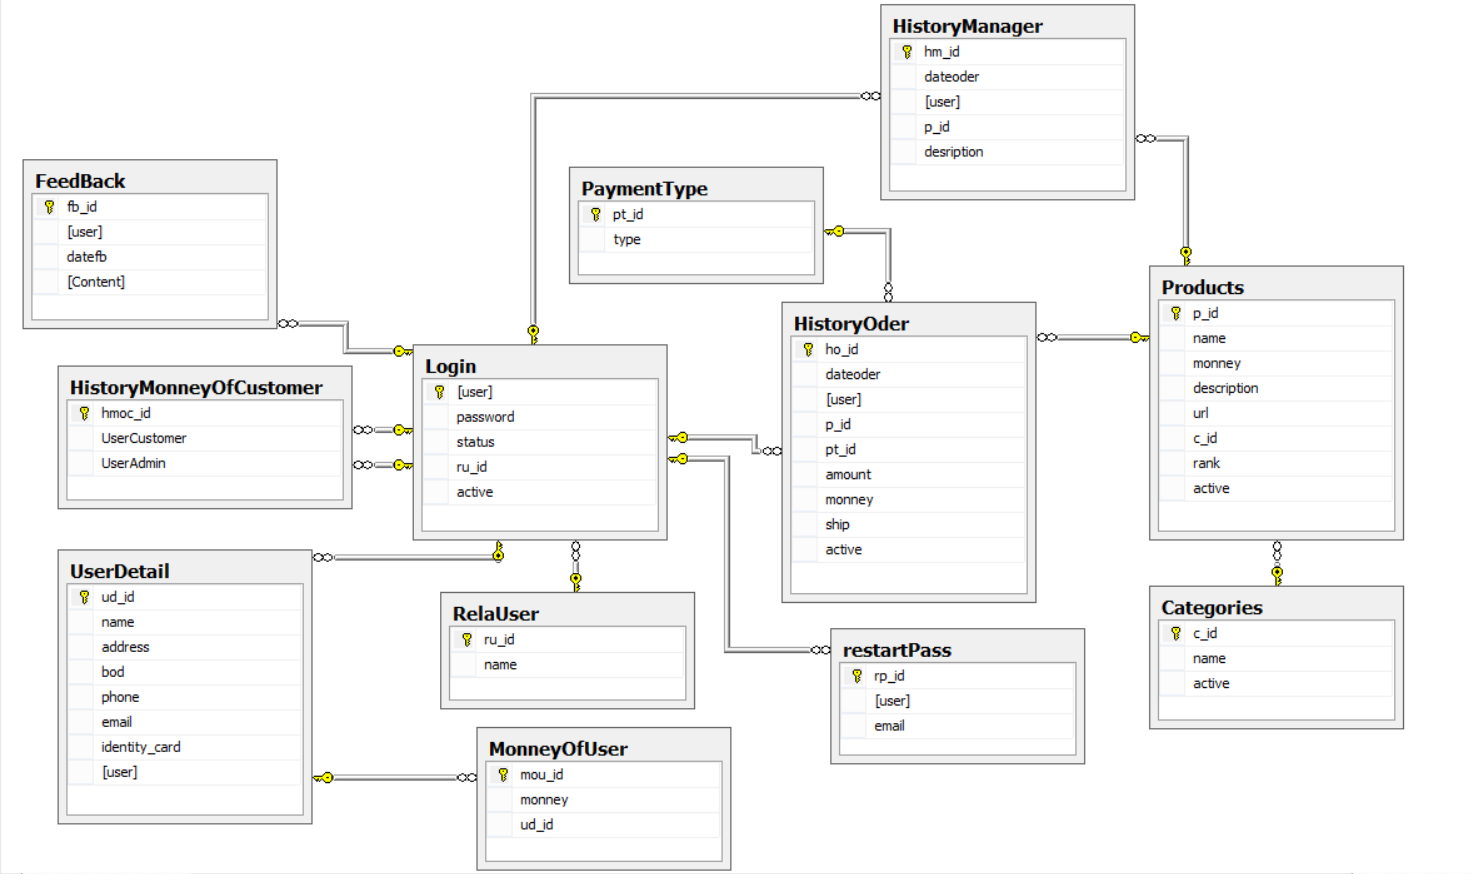
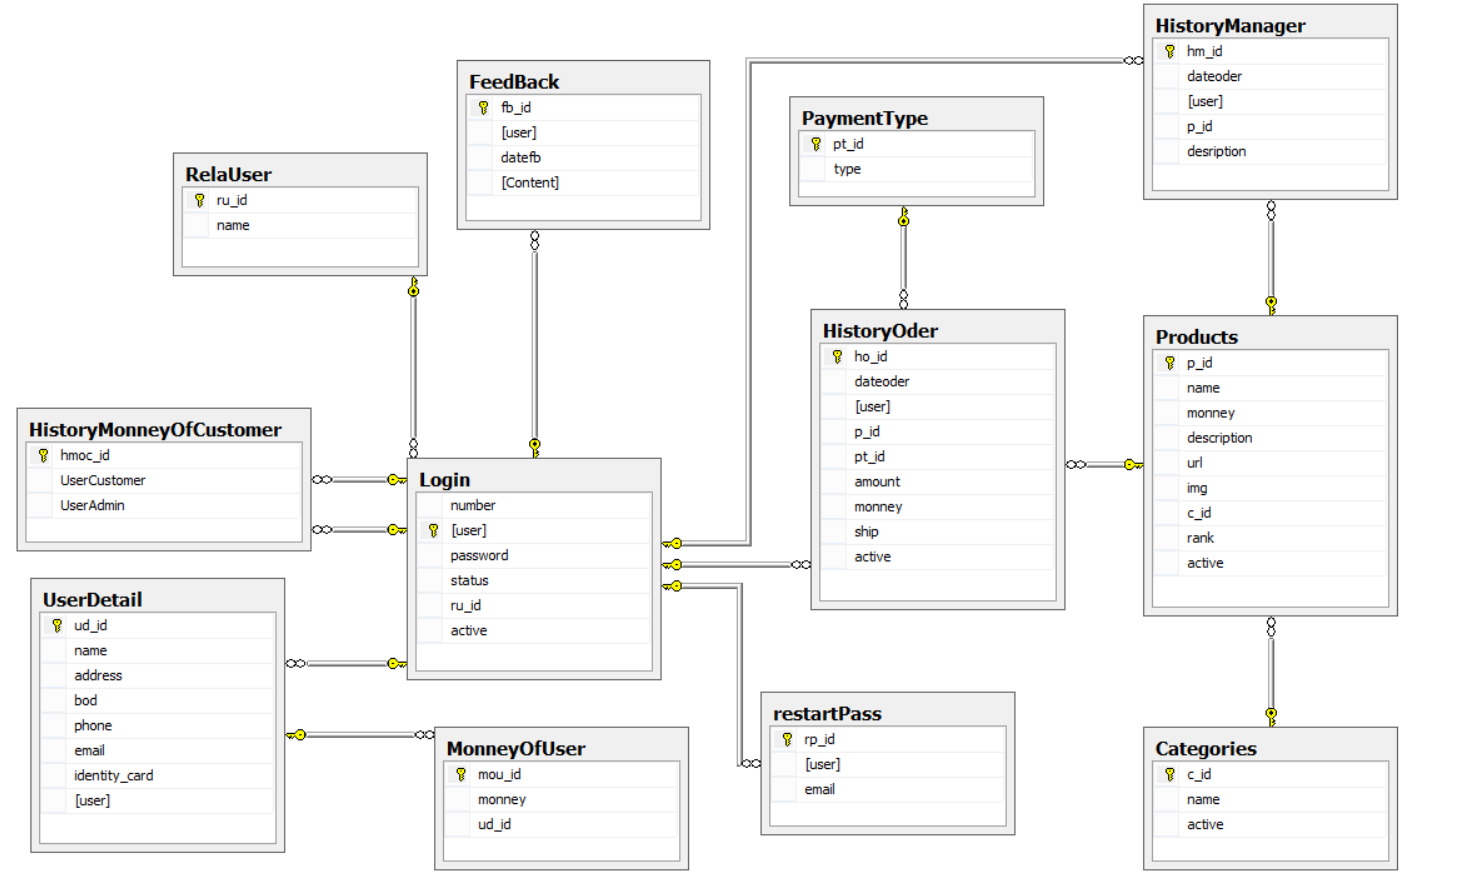
Create Project Commit

Changed region(s): [[0.0, 0.0, 0.9816, 1.0], [0.6748, 0.8351, 0.7362, 0.8969], [0.9202, 0.866, 0.9509, 0.8969]]

diff --git a/src/java/entities/Products.java b/src/java/entities/Products.java
@@ -16,6 +16,7 @@ public class Products {
     float monney;
     String description;
     String url;
+    String img;
     int rank;
     boolean active;
     int c_id;
@@ -59,6 +60,15 @@ public class Products {
     public void setUrl(String url) {
         this.url = url;
     }
+
+    public String getImg() {
+        return img;
+    }
+
+    public void setImg(String img) {
+        this.img = img;
+    }
+    
 
     public int getRank() {
         return rank;
